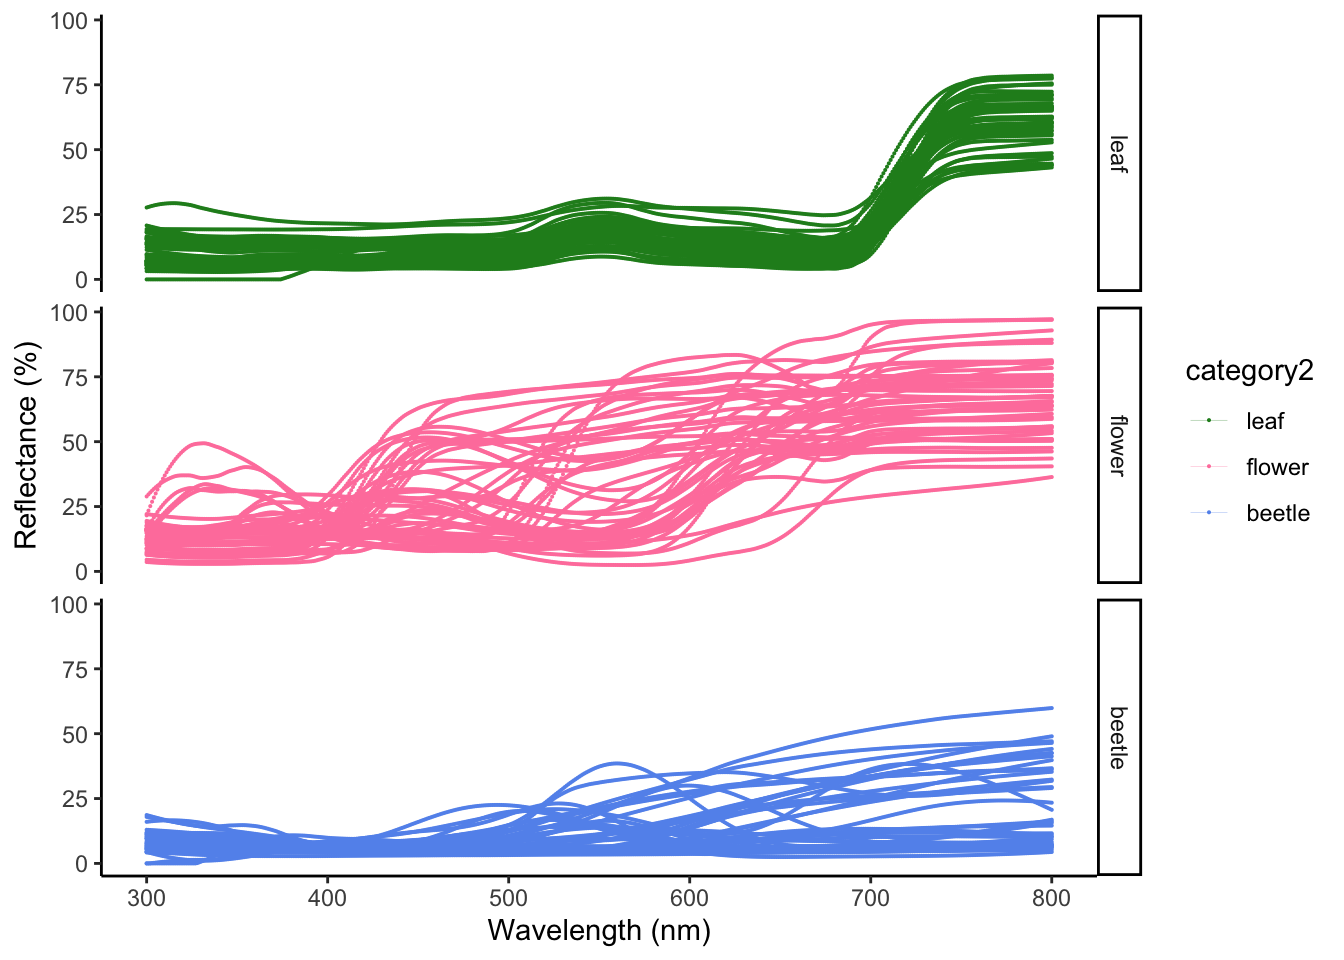
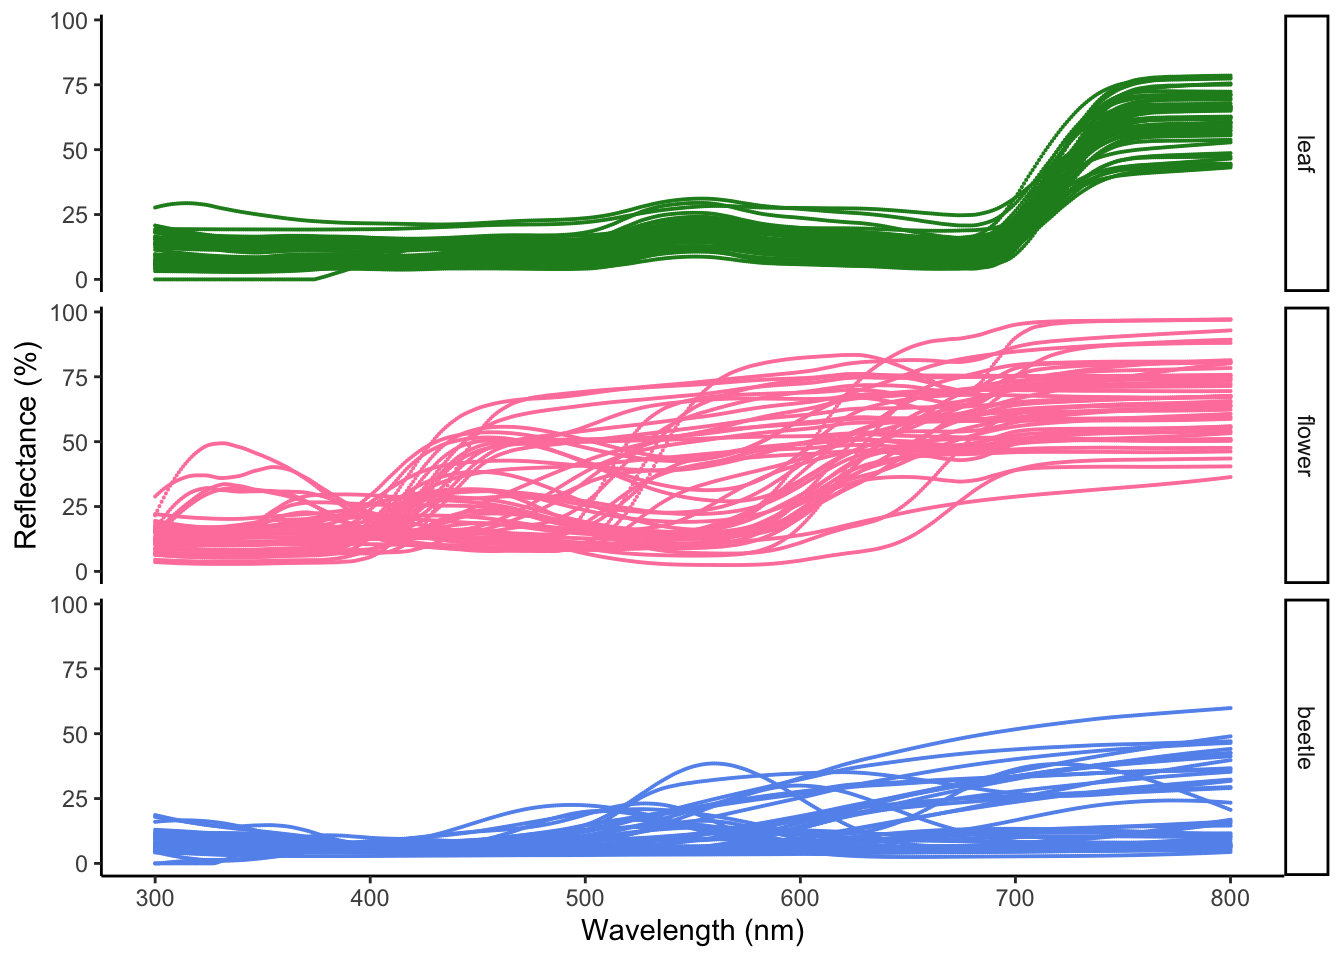
update 2020 March 24

diff --git a/index.html b/index.html
@@ -540,12 +540,12 @@ dataset.plot.indivisually<span class="op">$</span>category2&lt;-<span class="kw"
 <span class="kw">ggplot</span>(dataset.plot.indivisually,<span class="kw">aes</span>(<span class="dt">x=</span>wavelength,<span class="dt">y=</span>reflectance, <span class="dt">colour=</span>category2, <span class="dt">group=</span>species))<span class="op">+</span>
 <span class="st">  </span><span class="kw">geom_point</span>(<span class="dt">size=</span>.<span class="dv">05</span>)<span class="op">+</span>
 <span class="st">  </span><span class="kw">geom_line</span>(<span class="dt">size=</span>.<span class="dv">05</span>)<span class="op">+</span>
+<span class="st">  </span><span class="kw">theme</span>(<span class="dt">legend.position =</span> <span class="st">&quot;none&quot;</span>)<span class="op">+</span>
 <span class="st">  </span><span class="kw">scale_color_manual</span>( <span class="dt">values =</span> <span class="kw">c</span>( <span class="st">&quot;forestgreen&quot;</span>, <span class="st">&quot;palevioletred1&quot;</span>,<span class="st">&quot;cornflowerblue&quot;</span>))<span class="op">+</span>
 <span class="st">  </span><span class="kw">facet_grid</span>(category2 <span class="op">~</span><span class="st"> </span>.)<span class="op">+</span>
 <span class="st">  </span><span class="kw">xlab</span>(<span class="st">&quot;Wavelength (nm)&quot;</span>)<span class="op">+</span><span class="kw">ylab</span>(<span class="st">&quot;Reflectance (%)&quot;</span>)<span class="op">+</span>
-<span class="st">  </span><span class="kw">scale_fill_discrete</span>(<span class="dt">name=</span><span class="st">&quot;sample type&quot;</span>)<span class="op">+</span>
-<span class="st">  </span><span class="kw">theme</span>(<span class="dt">legend.position =</span> <span class="st">&quot;none&quot;</span>)<span class="op">+</span>
-<span class="st">  </span><span class="kw">theme_classic</span>()</code></pre></div>
+<span class="st">  </span><span class="kw">theme_classic</span>()<span class="op">+</span>
+<span class="st">  </span><span class="kw">guides</span>(<span class="dt">colour=</span><span class="ot">FALSE</span>) <span class="co"># remove the legend</span></code></pre></div>
 <div class="figure">
 <img src="index_files/figure-html/unnamed-chunk-2-1.png" alt="Reflectance spectra of samples used in the visual models" width="672" />
 <p class="caption">
